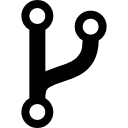
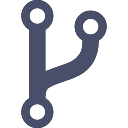
work section image/layout updated.

Changed region(s): [[0.1562, 0.0, 0.8438, 1.0]]

diff --git a/css/general.css b/css/general.css
@@ -1,85 +1,89 @@
 /* JqueryUI styles */
+
 .ui-widget-header {
     border: none;
     background: none;
 }
 
 .navbar-fixed {
-  top: 0;
-  z-index: 100;
-  position: fixed;
-  width: 100%;
+    top: 0;
+    z-index: 100;
+    position: fixed;
+    width: 100%;
 }
 
 .nav ul {
-  list-style-type: none;
-  margin: 0;
-  overflow: hidden;
+    list-style-type: none;
+    margin: 0;
+    overflow: hidden;
 }
 
 .nav li {
-  float: left;
+    float: left;
 }
 
 .nav li a {
-  display: block;
-  color: white;
-  font-weight: 600;
-  text-align: center;
-  padding: 14px 16px;
-  text-decoration: none;
+    display: block;
+    color: white;
+    font-weight: 600;
+    text-align: center;
+    padding: 14px 16px;
+    text-decoration: none;
 }
 
 .nav {
-  border: 0;
-  background-color: #3A65FC;
-  border-radius: 0px;
-  margin-bottom: 0;
-  height: 50px;
+    border: 0;
+    background-color: #3A65FC;
+    border-radius: 0px;
+    margin-bottom: 0;
+    height: 50px;
 }
 
 .nav a {
-  color: white;
-  text-decoration: none;
-  font-weight: 600;
-  transition: .3s;
-  white-space: nowrap;
-  overflow: hidden;
-  float: left;
+    color: white;
+    text-decoration: none;
+    font-weight: 600;
+    transition: .3s;
+    white-space: nowrap;
+    overflow: hidden;
+    float: left;
 }
 
 .nav a:hover {
-  transition: .3s;
+    transition: .3s;
 }
 
 footer {
-  color: white;
-  padding-top: 20px;
-  text-align: center;
+    color: white;
+    padding-top: 20px;
+    text-align: center;
 }
 
 footer a {
-  color: black;
+    color: black;
 }
 
 select {
-  color: black;
+    color: black;
 }
 
 input {
-  color: black;
+    color: black;
 }
 
 #tabs {
-  margin: 0px 0px 30px 0px;
+    margin: 0px 0px 30px 0px;
 }
 
-
-.ui-state-default, .ui-widget-content .ui-state-default, .ui-widget-header .ui-state-default {
+.ui-state-default,
+.ui-widget-content .ui-state-default,
+.ui-widget-header .ui-state-default {
     background: white;
 }
 
-.ui-state-active, .ui-widget-content .ui-state-active, .ui-widget-header .ui-state-active {
+.ui-state-active,
+.ui-widget-content .ui-state-active,
+.ui-widget-header .ui-state-active {
     background: #494E6B;
     color: white;
 }
@@ -88,96 +92,95 @@ input {
     color: white;
 }
 
-
 #web,
 #software,
 #fun {
     margin-top: 2em;
-  border-bottom: 1px solid #494E6B;
+    border-bottom: 1px solid #494E6B;
     background-color: white;
     color: black;
 }
 
 .centered {
-  display: block;
-  margin-left: auto;
-  margin-right: auto
+    display: block;
+    margin-left: auto;
+    margin-right: auto
 }
 
 .subtitle {
-  margin-top: 5%;
-  text-align: center;
-  font-size: 20px;
+    margin-top: 5%;
+    text-align: center;
+    font-size: 20px;
 }
 
 .topic {
-  text-align: center;
+    text-align: center;
 }
 
 .topic img {
-  width: 158px;
+    width: 158px;
+    background-color: white;
+    padding:15px;
+    border-radius: 10px;
 }
 
 .welcome {
-  margin: 0px 0px 2em 0px;
+    margin: 0px 0px 2em 0px;
 }
 
 .work,
 .contact {
-  background-color: #494E6B;
-  background-size: cover;
-  color: #fff;
-  padding-bottom: 5rem;
+    background-color: #494E6B;
+    background-size: cover;
+    color: #fff;
+    padding-bottom: 5rem;
 }
 
 .about {
-  background-color: white;
-  background-size: cover;
-  color: #000;
-  padding-bottom: 5rem;
+    background-color: white;
+    background-size: cover;
+    color: #000;
+    padding-bottom: 5rem;
 }
 
 
 /* Larger than mobile */
 
 @media (min-width: 400px) {
-  .topic img {
-    width: 158px;
-    margin-top: 20px;
-  }
+    .topic img {
+        width: 158px;
+        margin-top: 20px;
+    }
 }
 
 
 /* Larger than phablet (also point when grid becomes active) */
 
-@media (min-width: 550px) {
-    
-}
+@media (min-width: 550px) {}
 
 
 /* Larger than tablet */
 
 @media (min-width: 750px) {
-  .nav {}
-  .nav a {
-    font-size: 1.3em;
-  }
-  .topic img {
-    width: 128px;
-  }
+    .nav {}
+    .nav a {
+        font-size: 1.3em;
+    }
+    .topic img {
+        width: 128px;
+    }
 }
 
 
 /* Larger than desktop */
 
 @media (min-width: 1000px) {
-  .subtitle {
-    font-size: 30px;
-  }
-  .welcome {
-    padding: 150px 0px 250px 0px;
+    .subtitle {
+        font-size: 30px;
     }
-    
+    .welcome {
+        padding: 150px 0px 250px 0px;
+    }
     .contact {
         padding: 50px 0px 250px 0px;
     }

diff --git a/index.html b/index.html
@@ -28,6 +28,10 @@
     <link rel="stylesheet" href="css/normalize.css">
   <link rel="stylesheet" href="css/skeleton.css">
   <link rel="stylesheet" href="css/general.css">
+    
+    
+<script src="https://unpkg.com/github-card@1.2.1/dist/widget.js"></script>
+<!-- <div class="github-widget" data-username="lucaskern"></div> -->
 
 <body>
   <!-- Primary Page Layout
@@ -170,6 +174,7 @@
           <h6 style="margin-top: -20px;"> <strong> Built With: </strong> Javascript, Web Audio API, Canvas, HTML/CSS </h6>
           <p> A simple web game where you traverse the ocean, randomly generate dungeons, and gather treasure! </p>
         </div>
+          
       </div>
     </div>
   </div>
